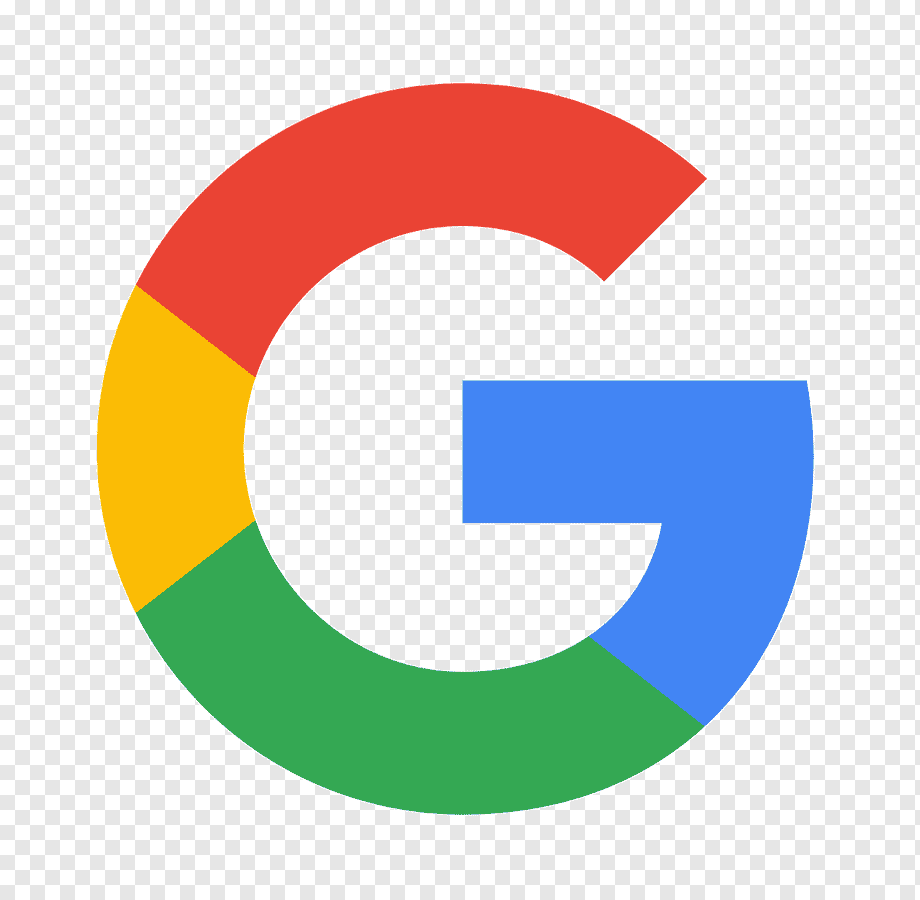
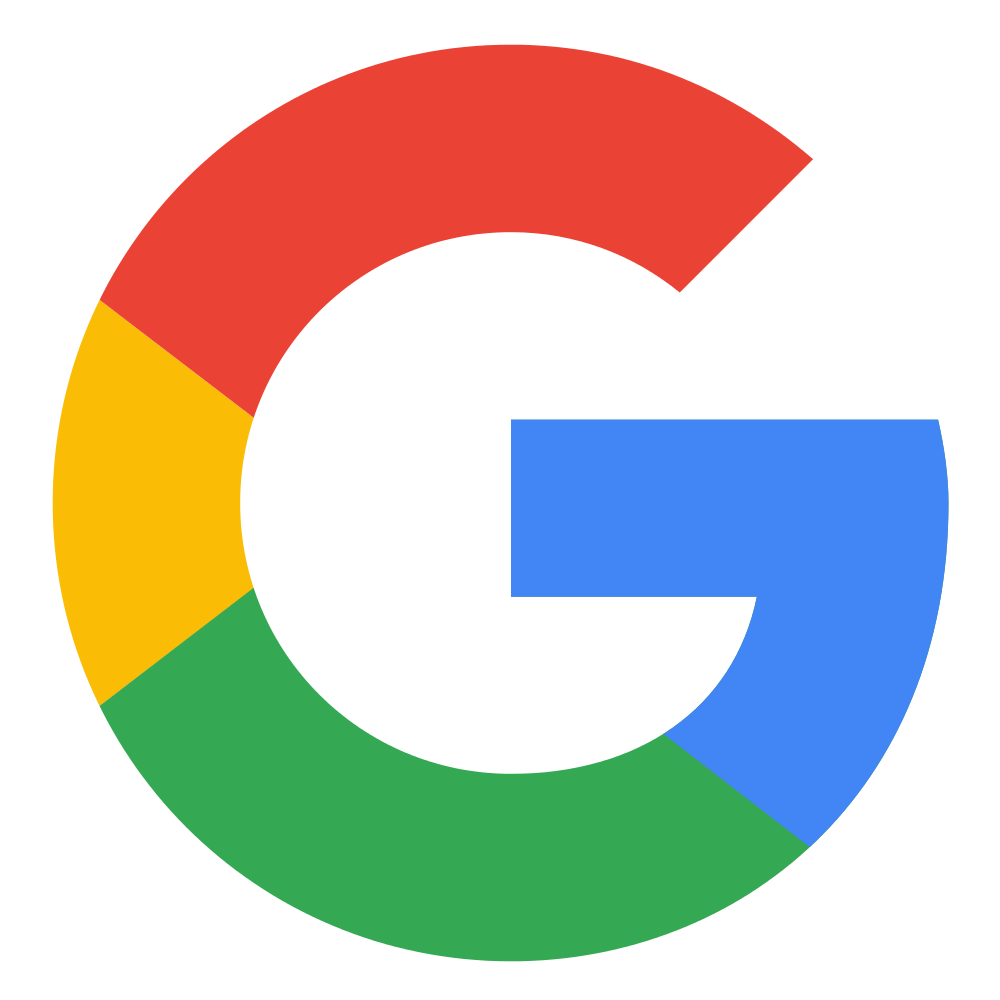
modified:   Templates/singlepage.html 	modified:   static/css/singlepage.css 	modified:   static/images/google.png 	modified:   static/js/script.js

diff --git a/static/css/singlepage.css b/static/css/singlepage.css
@@ -221,10 +221,11 @@ body{
     border: 1px solid #E2E8F0;
     font-size: 14px;
     color: #0F172A;
+    cursor: pointer;
 }
-#single-page #main #introduction .wrapper .introduction-cont .left .tabs .tabs-container ul li:nth-child(1){
+#single-page #main #introduction .wrapper .introduction-cont .left .tabs .tabs-container ul li:hover{
     background: #EFF6FF;
-    border: none;
+    border: 1px solid transparent;
 }
 #single-page #main #introduction .wrapper .introduction-cont .left .description .describe{
     margin-bottom: 20px;
@@ -407,7 +408,7 @@ body{
     background: #020617;
     color: #fff;
 }
-#single-page #main #introduction .wrapper .introduction-cont .right .right-cont .card .card-bottom{
+#single-page #main #introduction .wrapper .introduction-cont .right .right-cont .card  .card-bottom {
     border-top: 1px solid #E2E8F0;
     width: 100%;
     display: flex;
@@ -416,19 +417,37 @@ body{
     gap: 10px;
     padding-top: 20px;
 }
-#single-page #main #introduction .wrapper .introduction-cont .right .right-cont .card .card-bottom h6{
+#single-page #main #introduction .wrapper .introduction-cont .right .right-cont .card  .card-bottom h6{
     color: #0F172A;
     font-size: 16px;
     font-weight: 500;
 }
-#single-page #main #introduction .wrapper .introduction-cont .right .right-cont .card .card-bottom .social_cont{
+#single-page #main #introduction .wrapper .introduction-cont .right .right-cont .card  .card-bottom .social_cont{
     width: 304px;
     height: 48px;
     cursor: pointer;
 }
-#single-page #main #introduction .wrapper .introduction-cont .right .right-cont .card .card-bottom .social_cont img{
+#single-page #main #introduction .wrapper .introduction-cont .right .right-cont .card  .card-bottom .social_cont .social_icons{
+    display: flex; 
+    align-items: center;
+    margin-top: 20px;  
     width: 100%;
-    height: 100%;
+    justify-content: space-between;
+}
+#single-page #main #introduction .wrapper .introduction-cont .right .right-cont .card  .card-bottom .social_cont .social_icons .icon_cont{
+    background: #fff;
+    display: flex;
+    border: 4px solid #f3f3f3;
+    width: 50px;
+    height: 50px;
+    border-radius: 50%;
+    align-items: center;
+    padding: 8px;
+    justify-content: center;
+}
+#single-page #main #introduction .wrapper .introduction-cont .right .right-cont .card  .card-bottom .social_cont .social_icons .icon_cont img{
+    width: 100%;
+    height: 100%; 
 }
 /* introduction styling ends */
 /* reviews section styling starts */
@@ -869,7 +888,7 @@ color: #CBD5E1;
 /* Responsive */
 
 /* Responsive 1080px */
-@media all and (max-width:1080px){
+@media all and (max-width:1100px){
     #background {
         height: 455px;
     }
@@ -881,7 +900,7 @@ color: #CBD5E1;
         width: 294px;
         height: 174px;
     }
-    #single-page #main #introduction .wrapper .introduction-cont .right .right-cont .card .card-bottom .social_cont {
+    #single-page #main #introduction .wrapper .introduction-cont .right .right-cont .card  .card-bottom .social_cont {
         width: 266px;
         height: 45px;
     }
@@ -923,6 +942,10 @@ color: #CBD5E1;
     }
     #single-page #customer .wrapper-scroll .customer_cont .bottom .cards .card .profile .details p{
         font-size: 17px;
+    }
+    #single-page #main #introduction .wrapper .introduction-cont .right .right-cont .card .card-bottom .social_cont .social_icons .icon_cont {
+        width: 45px;
+        height: 45px;
     }
 }
 /* Responsive 980 */
@@ -1023,7 +1046,7 @@ color: #CBD5E1;
     #single-page #main #introduction .wrapper .introduction-cont .right .right-cont .card .card-top .card-button button {
         padding: 12px 20px;
     }
-    #single-page #main #introduction .wrapper .introduction-cont .right .right-cont .card .card-bottom .social_cont {
+    #single-page #main #introduction .wrapper .introduction-cont .right .right-cont .card  .card-bottom .social_cont {
         width: 225px;
         height: 37px;
     }
@@ -1097,6 +1120,13 @@ color: #CBD5E1;
         width: 100%;
         margin-top: 30px;
     }
+    #single-page #main #introduction .wrapper .introduction-cont .right .right-cont .card .card-bottom .social_cont .social_icons {
+        margin-top: 0px;
+    }
+    #single-page #main #introduction .wrapper .introduction-cont .right .right-cont .card .card-bottom .social_cont .social_icons .icon_cont {
+        width: 43px;
+        height: 43px;
+    }
 }
 /* Responsive 640px */
 @media all and (max-width:640px){
@@ -1127,7 +1157,7 @@ color: #CBD5E1;
     #single-page #main #introduction .wrapper .introduction-cont .right .right-cont .card .card-top .price-detail h3 {
         font-size: 21px;
     }
-    #single-page #main #introduction .wrapper .introduction-cont .right .right-cont .card .card-bottom .social_cont {
+    #single-page #main #introduction .wrapper .introduction-cont .right .right-cont .card  .card-bottom .social_cont {
         width: 100%;
         height: 58px;
     }
@@ -1156,6 +1186,10 @@ color: #CBD5E1;
     #single-page #main #introduction .wrapper .introduction-cont .left .intro .details .rating .rating-star{
         border-right: 3px solid #ccc;
     }
+    #single-page #main #introduction .wrapper .introduction-cont .right .right-cont .card .card-bottom .social_cont .social_icons .icon_cont {
+        width: 55px;
+        height: 55px;
+    }
 }
 
 /* Responsive 540px */
@@ -1175,7 +1209,7 @@ color: #CBD5E1;
     #single-page #main #introduction .wrapper .introduction-cont .left .intro .details .rating {
         gap: 0px;
     }
-    #single-page #main #introduction .wrapper .introduction-cont .right .right-cont .card .card-bottom .social_cont {
+    #single-page #main #introduction .wrapper .introduction-cont .right .right-cont .card  .card-bottom .social_cont {
         height: 50px;
     }
     #single-page #courses .wrapper .courses_cont .bottom .cards ul li a .bg_cont {
@@ -1209,13 +1243,11 @@ color: #CBD5E1;
     #single-page #main #introduction .wrapper .introduction-cont .right .right-cont .card .card-top .poster {
         height: 185px;
     }
-    #single-page #main #introduction .wrapper .introduction-cont .right .right-cont .card .card-bottom .social_cont {
+    #single-page #main #introduction .wrapper .introduction-cont .right .right-cont .card  .card-bottom .social_cont {
         height: 60px;
     }
     #single-page #main #introduction .wrapper .introduction-cont .left .tabs .tabs-container ul li {
         padding: 7px 3px;
-    }
-    #single-page #main #introduction .wrapper .introduction-cont .left .tabs .tabs-container ul li {
         font-size: 12px;
     }
     #single-page #main #introduction .wrapper .introduction-cont .left .path ul li {
@@ -1314,11 +1346,6 @@ color: #CBD5E1;
     #single-page #customer .wrapper-scroll .customer_cont .bottom .cards .card .profile .details span {
         font-size: 12px;
     }
-    #single-page footer .wrapper .footer_cont .right .footer_data .social_icons .icon_cont{
-        width: 30px;
-        height: 30px;
-        padding: 5px;
-    }
 }
 
 /* Responsive 360px */
@@ -1326,7 +1353,7 @@ color: #CBD5E1;
     #background {
         height: 455px;
     }
-    #single-page #main #introduction .wrapper .introduction-cont .right .right-cont .card .card-bottom .social_cont {
+    #single-page #main #introduction .wrapper .introduction-cont .right .right-cont .card  .card-bottom .social_cont {
         height: 42px;
     }
     #single-page #main header .wrapper .header_cont nav .right{
@@ -1376,11 +1403,10 @@ color: #CBD5E1;
     #single-page footer .wrapper .footer_cont .right .footer_data .social_icons{
         gap: 15px;
     }
-    #single-page footer .wrapper .footer_cont .right .footer_data .social_icons .icon_cont{
-        width: 38px;
-        height: 38px;
-        padding: 8px;
-    } 
+    #single-page #main #introduction .wrapper .introduction-cont .right .right-cont .card .card-bottom .social_cont .social_icons .icon_cont {
+        width: 50px;
+        height: 50px;
+    }
 }
 /* Responsive 320 */
 @media all and (max-width:320px){
@@ -1390,7 +1416,11 @@ color: #CBD5E1;
     #single-page #main #introduction .wrapper .introduction-cont .right .right-cont .card .card-top .poster {
         height: 155px;
     }
-    #single-page #main #introduction .wrapper .introduction-cont .right .right-cont .card .card-bottom .social_cont {
+    #single-page #main #introduction .wrapper .introduction-cont .right .right-cont .card  .card-bottom .social_cont {
         height: 38px;
+    }
+    #single-page #main #introduction .wrapper .introduction-cont .right .right-cont .card .card-bottom .social_cont .social_icons .icon_cont {
+        width: 43px;
+        height: 43px;
     }
 }

diff --git a/Templates/singlepage.html b/Templates/singlepage.html
@@ -61,9 +61,9 @@
                         <div class="left">
                             <div class="path">
                                 <ul>
-                                    <li>Home <i class="fa fa-angle-right"></i></li>
-                                    <li>Categories <i class="fa fa-angle-right"></i></li>
-                                    <li><span>{{crs.course_name}}</span></li>
+                                    <li><a href="#">Home <i class="fa fa-angle-right"></i></a></li>
+                                    <li><a href="#">Categories <i class="fa fa-angle-right"></i></a></li>
+                                    <li><a href="#"><span>{{crs.course_name}}</span></a></li>
                                 </ul>
                             </div>
                             <div class="intro">
@@ -109,14 +109,14 @@
                             <div class="tabs">
                                 <div class="tabs-container">
                                     <ul>
-                                        <li>Description</li>
-                                        <li>Instructor</li>
-                                        <li>Syllabus</li>
-                                        <li>Reviews</li>
+                                        <li data-target="description-content">Description</li>
+                                        <li data-target="instructor-content">Instructor</li>
+                                        <li data-target="syllabus-content">Syllabus</li>
+                                        <li data-target="reviews">Reviews</li>
                                     </ul>
                                 </div>
                             </div>
-                            <div class="description">
+                            <div id="description-content" class="description">
                                 <div class="describe">
                                     <h5>Course Description</h5>
                                     <p>This interactive e-learning course will introduce you to User Experience (UX) design, the art of creating products and services that are intuitive, enjoyable, and user-friendly. Gain a solid foundation in UX principles and learn to apply them in real-world scenarios through engaging modules and interactive exercises.</p>
@@ -125,7 +125,7 @@
                                     <h5>Certification</h5>
                                     <p>At Byway, we understand the significance of formal recognition for your hard work and dedication to continuous learning. Upon successful completion of our courses, you will earn a prestigious certification that not only validates your expertise but also opens doors to new opportunities in your chosen field.</p>
                                 </div>
-                                <div class="describe">
+                                <div id="instructor-content" class="describe">
                                     <h5>Instructor</h5>
                                     <div class="instructor">
                                         <h6>Ronald Richards</h6>
@@ -161,7 +161,7 @@
                                     <p class="instruct_p">With over a decade of industry experience, Ronald brings a wealth of practical knowledge to the classroom. He has played a pivotal role in designing user-centric interfaces for renowned tech companies, ensuring seamless and engaging user experiences.</p>
                                 </div>
                             </div>
-                            <div class="syllabus">
+                            <div id="syllabus-content" class="syllabus">
                                 <h5>Syllabus</h5>
                                 <div class="syllabus-cont">
                                     <ul>
@@ -229,7 +229,33 @@
                                     <div class="card-bottom">
                                         <h6>Share</h6>
                                         <div class="social_cont">
-                                            <img src="{%static 'images/social2.png' %}" alt="Social media">
+                                            <div class="social_icons">
+                                                <a href="https://www.facebook.com/">
+                                                    <div class="icon_cont">
+                                                        <img src="{%static 'images/facebook.png' %}" alt="Facebook"/>
+                                                    </div>
+                                                </a>
+                                                <a href="https://github.com/">
+                                                    <div class="icon_cont">
+                                                        <img src="{%static 'images/github.png' %}" alt="Github"/>          
+                                                    </div>
+                                                </a>
+                                                <a href="https://www.google.co.in/">
+                                                    <div class="icon_cont">
+                                                        <img src="{%static 'images/google.png' %}" alt="Google"/>
+                                                    </div>
+                                                </a>
+                                                <a href="https://x.com/?lang=en">
+                                                    <div class="icon_cont">
+                                                        <img src="{%static 'images/twitter.png' %}" alt="Twitter"/>
+                                                    </div>
+                                                </a>
+                                                <a href="https://www.microsoft.com/en">
+                                                    <div class="icon_cont">
+                                                        <img src="{%static 'images/microsoft.png' %}" alt="Microsoft"/>
+                                                    </div>
+                                                </a>
+                                            </div>
                                         </div>
                                     </div>
                                 </div>

diff --git a/static/js/script.js b/static/js/script.js
@@ -27,3 +27,21 @@ document.addEventListener('DOMContentLoaded', function () {
     });
 });
 
+// JavaScript for Smooth Scrolling
+document.addEventListener('DOMContentLoaded', () => {
+    const tabs = document.querySelectorAll('.tabs-container ul li');
+
+    tabs.forEach(tab => {
+        tab.addEventListener('click', () => {
+            const targetId = tab.getAttribute('data-target');
+            const targetElement = document.getElementById(targetId);
+
+            if (targetElement) {
+                targetElement.scrollIntoView({
+                    behavior: 'smooth',
+                    block: 'start'
+                });
+            }
+        });
+    });
+});
